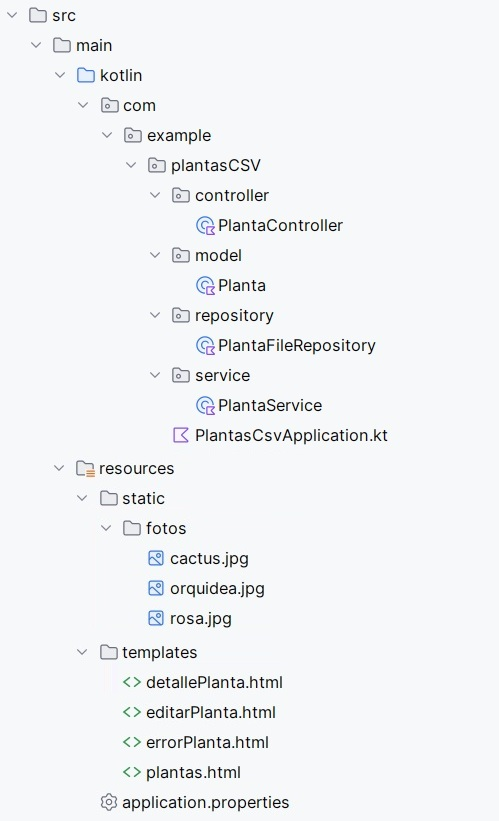
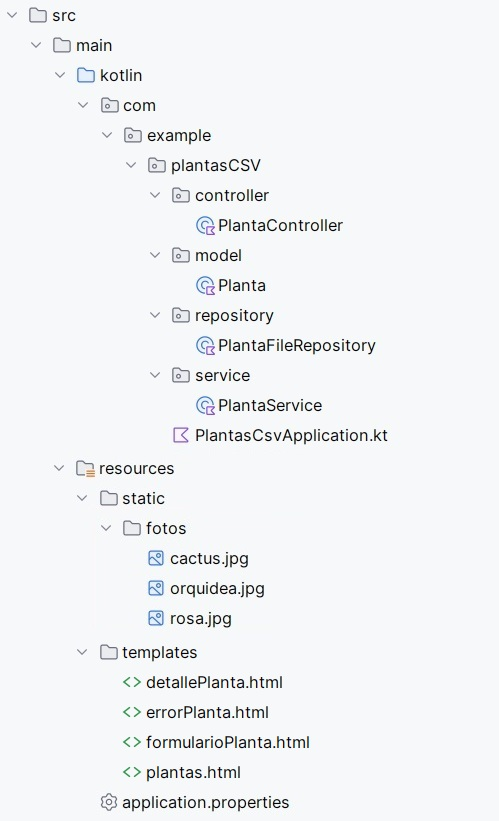
ene11

Changed region(s): [[0.2705, 0.8526, 0.6313, 0.9135]]

diff --git a/docs/4_Componentes.md b/docs/4_Componentes.md
@@ -143,7 +143,7 @@ Para crear un proyecto **Spring Boot** Maven/Gradle con las dependencias necesar
 
 Una vez creado el proyecto tendremos las configuraciones y dependencias en los archivos siguientes:
 
-- **applicantion.properties:** configuración de aspectos como las conexiones a base de datos o el puerto por donde acceder a nuestra aplicación.
+- **application.properties:** configuración de aspectos como las conexiones a base de datos o el puerto por donde acceder a nuestra aplicación.
 
 - **pom.xml:** dependencias necesarias para que la aplicación funcione.
 
@@ -174,7 +174,7 @@ Accedemos a Spring Initializr desde la url [https://start.spring.io/](https://st
 
 <span class="mi_sombreado">**PASO 2: Abrir el proyecto y ejecutarlo**</span>
 
-Descomprimimos el archivo obtenido en el paso anterior y lo abrimos con IntelliJ. Vemos que, además de los archivos **applicantion.properties** y **pom.xml** se ha creado automaticamente la clase **SaludoApplication** (con la anotación **@SpringBootApplication**) y la función de extensión **runApplication** que sirve para lanzar la aplicación.
+Descomprimimos el archivo obtenido en el paso anterior y lo abrimos con IntelliJ. Vemos que, además de los archivos **application.properties** y **pom.xml** se ha creado automaticamente la clase **SaludoApplication** (con la anotación **@SpringBootApplication**) y la función de extensión **runApplication** que sirve para lanzar la aplicación.
 
 ![Spring 2](img/spring/spring02.jpg)
 
@@ -183,7 +183,7 @@ Por tanto deberemos ejecutar la aplicación usando la clase `SaludoApplication.k
 ![Spring 3](img/spring/spring03.jpg)
 
 !!!Note ""
-    Si el puerto 8080 está ocupado aparecerá un mensaje diciento que no se puede iniciar el servidor Tomcat. Puedes cambiar el puerto, por ejemplo al 8888, añadiendo la sigueinte línea en el archivo `application.properties` (que se encuentra en la carpeta resources del proyecto):
+    Si el puerto 8080 está ocupado aparecerá un mensaje diciendo que no se puede iniciar el servidor Tomcat. Puedes cambiar el puerto, por ejemplo al 8888, añadiendo la siguiente línea en el archivo `application.properties` (que se encuentra en la carpeta resources del proyecto):
     ```
     server.port=8888
     ```
@@ -346,7 +346,7 @@ Estos tres componentes trabajan de la siguiente forma:
 
 Spring MVC forma parte del ecosistema Spring y se organiza siguiendo una arquitectura en capas en la que cada capa tiene una función concreta y se comunica únicamente con las capas adyacentes. Esta arquitectura encaja perfectamente con el patrón MVC (Model–View–Controller) y proporciona toda la infraestructura necesaria para manejar peticiones HTTP, invocar controladores y devolver vistas (HTML, JSON, etc.) lo que permite aplicaciones más mantenibles, escalables y fáciles de entender.  
 
-En la siguiente tabla se muestran las capas más habituales en una aplicación Spring con su equivamencia en Spring MVC, sus anotaciones más habituales y la función que realiza cada una de ellas:
+En la siguiente tabla se muestran las capas más habituales en una aplicación Spring con su equivalencia en Spring MVC, sus anotaciones más habituales y la función que realiza cada una de ellas:
 
 **Anotaciones por capa y correspondencia Spring ↔ MVC**
 
@@ -984,8 +984,199 @@ class PlantaService(
 }
 ```
 
+<span class="mi_sombreado">**PASO 6: Revisar los archivos html**</span>
 
-<span class="mi_sombreado">**PASO 6: Comprobar y ejecutar**</span>
+A los archivos html del ejemplo anterior les hemos hecho algunas modificaciones y ahora quedan así:
+
+- El archivo que mostrará la lista de plantas será `plantas.html` y su código es el siguiente:
+
+```html
+<!DOCTYPE html>
+<html xmlns:th="http://www.thymeleaf.org">
+<head>
+    <meta charset="UTF-8">
+    <title>Lista de Plantas</title>
+    <link rel="stylesheet" th:href="@{/bootstrap/css/bootstrap.min.css}">
+</head>
+
+<body>
+
+<div class="container mt-5">
+    <h1>Plantas</h1>
+    
+    <h5 th:if="${plantas.size() > 0}">Aquí tienes una tabla con todas las plantas y las acciones que puedes hacer con ellas</h5>
+    <p th:unless="${plantas.size() > 0}">No hay plantas registradas en el sistema</p>
+
+    <table class="table table-striped">
+        <thead>
+        <tr>
+            <th>ID</th>
+            <th>Nombre</th>
+            <th>Tipo</th>
+            <th>Acciones</th>
+        </tr>
+        </thead>
+        <tbody>
+        <tr th:each="planta : ${plantas}">
+            <td th:text="${planta.id_planta}">1</td>
+            <td th:text="${planta.nombre}">Rosa</td>
+            <td th:text="${planta.tipo}">Flor</td>
+            <td>
+    
+                <!-- Mostrar enlace a la página de detalles de la planta -->
+                <a th:href="@{/planta/{id_planta}(id_planta=${planta.id_planta})}" class="btn btn-info  btn-sm">Detalles</a>
+    
+                <a th:href="@{/plantas/editar/{id}(id=${planta.id_planta})}" class="btn btn-info  btn-sm">Editar</a>
+    
+                <!-- En un entorno real, borrar debería ser un form con method POST/DELETE,
+                     pero para aprender, un GET está bien -->
+                <a th:href="@{/plantas/borrar/{id}(id=${planta.id_planta})}"
+                   class="btn btn-info btn-sm"
+                   onclick="return confirm('¿Estás seguro de borrar esta planta?')">Borrar</a>
+            </td>
+        </tr>
+        </tbody>
+    </table>
+
+    <a th:href="@{/plantas/nueva}" class="mt-5">Agregar Nueva Planta</a>
+
+</div>
+</body>
+</html>
+```
+
+
+- El archivo que mostrará el detalle de una plantas será `detallePlanta.html` y su código es el siguiente:
+
+```html
+<!DOCTYPE html>
+<html xmlns:th="http://www.thymeleaf.org">
+<head>
+    <meta charset="UTF-8">
+    <title>Detalles de la Planta</title>
+    <link rel="stylesheet" th:href="@{/bootstrap/css/bootstrap.min.css}">
+</head>
+
+
+<body>
+<div class="container mt-5">
+    <div class="row justify-content-center">
+        <div class="col-md-6 text-center" style="width: 18rem;">
+        <div class="card text-center">
+                <!-- Foto -->
+            <img th:src="@{/fotos/{nombreImagen}(nombreImagen=${planta.foto})}"
+             alt="Foto"
+             class="img-fluid rounded mb-4"
+             style="max-height: 250px;">
+
+            <div class="card-body">
+                <h1 class="card-title text-info mb-4" th:text="${planta.nombre}">Nombre</h1>
+
+                <!-- Datos (usamos fw-bold para negrita) -->
+                <p class="fs-5">
+                <span class="fw-bold">Tipo:</span>
+                <!-- Badge para resaltar el tipo -->
+                <span th:text="${planta.tipo}">Tipo</span>
+                </p>
+
+                <p class="fs-5">
+                <span class="fw-bold">Altura:</span>
+                <span th:text="${planta.altura} + ' m'">0.0 m</span>
+                </p>
+
+                <hr class="my-4">
+
+                <a th:href="@{/plantas/editar/{id_planta}(id_planta=${planta.id_planta})}"
+               class="btn btn-info bt-sm">Editar</a>
+
+                <a th:href="@{/plantas/borrar/{id_planta}(id_planta=${planta.id_planta})}"
+               class="btn btn-info bt-sm"
+               onclick="return confirm('¿Estás seguro de borrar esta planta?')">Borrar</a>
+            </div>
+        </div>
+            <p class="mt-3"><a th:href="@{/plantas}">Volver al listado</a></p>
+        </div>
+    </div>
+</div>
+</body>
+</html>
+
+```
+
+
+- El archivo que mostrará el aviso en caso de error será `errorPlanta.html` y su código es el siguiente:
+
+```html
+<!DOCTYPE html>
+<html xmlns:th="http://www.thymeleaf.org">
+<head>
+    <meta charset="UTF-8">
+    <title>Planta no encontrada</title>
+    <link rel="stylesheet" th:href="@{/bootstrap/css/bootstrap.min.css}">
+</head>
+
+<body>
+<div class="container mt-5">
+    <h1>Error</h1>
+
+    <p>La planta que estás buscando no existe.</p>
+
+    <a th:href="@{/plantas}">Volver a la lista de plantas</a>
+</div>
+</body>
+</html>
+```
+
+- El archivo que mostrará el formulario para añadir una planta o modificar la información de una existenet será `formularioPlanta.html` y su código es el siguiente:
+```html
+<!DOCTYPE html>
+<html xmlns:th="http://www.thymeleaf.org">
+<head>
+    <title th:text="${titulo}">Formulario Planta</title>
+    <link rel="stylesheet" th:href="@{/bootstrap/css/bootstrap.min.css}">
+</head>
+
+
+<body>
+<div class="container mt-5">
+<h1 th:text="${titulo}">Formulario</h1>
+
+<form th:action="@{/plantas/guardar}" th:object="${planta}" method="post">
+
+    <!-- Campo oculto para el ID. Si es 0 se creará nuevo, si es > 0 se editará -->
+    <input type="hidden" th:field="*{id_planta}" />
+
+    <div class="mb-3">
+        <label class="form-label">Nombre:</label>
+        <input type="text" class="form-control" th:field="*{nombre}" required />
+    </div>
+
+    <div class="mb-3">
+        <label class="form-label">Tipo:</label>
+        <input type="text" class="form-control" th:field="*{tipo}" required />
+    </div>
+
+    <div class="mb-3">
+        <label class="form-label">Altura (m):</label>
+        <input type="number" step="0.1" class="form-control" th:field="*{altura}" />
+    </div>
+
+    <div class="mb-3">
+        <label class="form-label">Nombre Foto (ej: rosa.jpg):</label>
+        <input type="text" class="form-control" th:field="*{foto}" />
+    </div>
+
+    <button type="submit" class="btn btn-success">Guardar</button>
+    <a th:href="@{/plantas}" class="btn btn-secondary">Cancelar</a>
+</form>
+</div>
+</body>
+</html>
+```
+
+
+
+<span class="mi_sombreado">**PASO 7: Comprobar y ejecutar**</span>
 
 Ejecutamos la aplicación usando la clase `PlantasApplication.kt` como clase principal y abrimos la url [http://localhost:8080/plantas](http://localhost:8080/plantas) en el navegador. Las siguientes imágenes muestran el funcionamiento de nuestra aplicación:
 
@@ -1007,9 +1198,9 @@ Ejecutamos la aplicación usando la clase `PlantasApplication.kt` como clase pri
 ![Spring 12d](img/spring/spring12d.jpg)
 
 
-<span class="mi_sombreado">**PASO 7: Entender el funcionamiento**</span>
+<span class="mi_sombreado">**PASO 8: Entender el funcionamiento**</span>
 
-Al ejecutar el programa se produce esta secuendia de acciones:
+Al ejecutar el programa se produce esta secuencia de acciones:
 
 1. El **usuario** entra a /plantas.
 
@@ -1021,7 +1212,7 @@ Al ejecutar el programa se produce esta secuendia de acciones:
 
 5. El **controlador** mete esos objetos en el **modelo** y carga la plantilla HTML plantas.html.
 
-6. El **usuario** le la información de las plantas en su navegador.
+6. El **usuario** lee la información de las plantas en su navegador.
 
 
 
@@ -1032,7 +1223,7 @@ Al ejecutar el programa se produce esta secuendia de acciones:
 
 !!! warning "Práctica 1: Trabaja en tu aplicación"
     1. Crea un nuevo proyecto Spring Boot (con el nombre de tu aplicación) utilizando Spring Initializr.
-    2. Partiendo del un fichero CSV con información crea tu aplicación CRUD.
+    2. Partiendo de un fichero CSV con información crea tu aplicación CRUD.
     3. Modifica el aspecto de tu aplicación aplicando alguna característica de `bootstrap` para que el resultado quede personalizado a tu gusto.
 
 
@@ -1078,7 +1269,7 @@ En lugar de proporcionar una única solución, Spring Data está compuesto por v
 
 ### 4.4.1. Spring Data JPA
 
-Spring Data JPA (Java Persistence API) es un módulo de Spring Data que sirve para simplificar el acceso a bases de datos relacionales utlizando objetos (clases) sin tener que escribir SQL ni código repetitivo. Con Spring Data JPA:
+Spring Data JPA (Java Persistence API) es un módulo de Spring Data que sirve para simplificar el acceso a bases de datos relacionales utilizando objetos (clases) sin tener que escribir SQL ni código repetitivo. Con Spring Data JPA:
 
 - Solo defines entidades (@Entity)
 
@@ -1277,7 +1468,7 @@ La estructura básica es: `findBy + NombreDeCampo + Condición` donde:
 - **NombreDeCampo**: Debe coincidir exactamente con el nombre del atributo en la entidad. Se puede incluir navegación de atributos para relaciones (EntidadRelacionada.Atributo).
 
 
-- **Condición** (opcional): Permite añadir operadores lógicos como And, Or, etc. Ejemplo: findByNombreAndEdad.
+- **Condición** (opcional): Permite añadir operadores lógicos como And, Or, etc. Ejemplo: findByNombreAndAltura.
 
 
 **Ejemplos de métodos según la convención**
@@ -1287,12 +1478,12 @@ La estructura básica es: `findBy + NombreDeCampo + Condición` donde:
             SELECT * FROM plantas WHERE nombre = ?
 
 
-* Consultas con condiciones: Método **findByNombreAndEdad(String nombre, Integer edad)**. Ejemplo de consulta generada:
+* Consultas con condiciones: Método **findByNombreAndAltura(String nombre, Double altura)**. Ejemplo de consulta generada:
 
             SELECT * FROM plantas WHERE nombre = ? AND altura = ?
 
 
-* Consultas con orden: Método **findByNombreOrderByEdadDesc(String nombre)**. Ejemplo de consulta generada:
+* Consultas con orden: Método **findByNombreOrderByAlturaDesc(String nombre)**. Ejemplo de consulta generada:
 
             SELECT * FROM plantas WHERE nombre = ? ORDER BY altura DESC
 
@@ -1305,6 +1496,29 @@ La estructura básica es: `findBy + NombreDeCampo + Condición` donde:
 **Palabras clave en la convención**
 
 ![springConvenciones](img/springConvenciones.png)
+
+
+
+
+| Palabra Clave | Función | Ejemplo                         |
+| --- | --- |---------------------------------|
+| `And` | Combina múltiples condiciones con `AND`. | `findByNombreAndAltura`         |
+| `Or` | Combina múltiples condiciones con `OR`. | `findByNombreOrAltura`          |
+| `Between` | Busca valores en un rango. | `findByAlturaBetween`           |
+| `LessThan` | Busca valores menores a un límite. | `findByAlturaLessThan`          |
+| `GreaterThan` | Busca valores mayores a un límite. | `findByAlturaGreaterThan`       |
+| `IsNull` | Busca valores `NULL`. | `findByTipoIsNull`              |
+| `IsNotNull` | Busca valores que no sean `NULL`. | `findByTipoIsNotNull`           |
+| `Like` | Busca valores que coincidan con un patrón. | `findByNombreLike`              |
+| `NotLike` | Busca valores que no coincidan con un patrón. | `findByNombreNotLike`           |
+| `StartingWith` | Busca valores que comiencen con un prefijo. | `findByNombreStartingWith`      |
+| `EndingWith` | Busca valores que terminen con un sufijo. | `findByNombreEndingWith`        |
+| `Containing` | Busca valores que contengan un patrón. | `findByNombreContaining`        |
+| `OrderBy` | Ordena los resultados por un campo específico. | `findByNombreOrderByAlturaDesc` |
+| `Top` | Devuelve los primeros resultados (límite). | `findTop3ByAlturaGreaterThan`   |
+| `First` | Devuelve el primer resultado. | `findFirstByNombre`             |
+
+
 
 A tener en cuenta:
 
@@ -1362,7 +1576,7 @@ La consulta para buscar las plantas que están asociadas con un jardín específ
 
 
 
-**Este mismo ejemplo utilizando convención de nombres quedaría así:
+Este mismo ejemplo utilizando convención de nombres quedaría así:
 
     @Repository
     interface PlantaRepository : JpaRepository<Planta, Int> {
@@ -1379,8 +1593,6 @@ La consulta para buscar las plantas que están asociadas con un jardín específ
 
 
 <span class="mis_ejemplos">Ejemplo 4: CRUD con SQLite</span>
-
-
 
 
 
